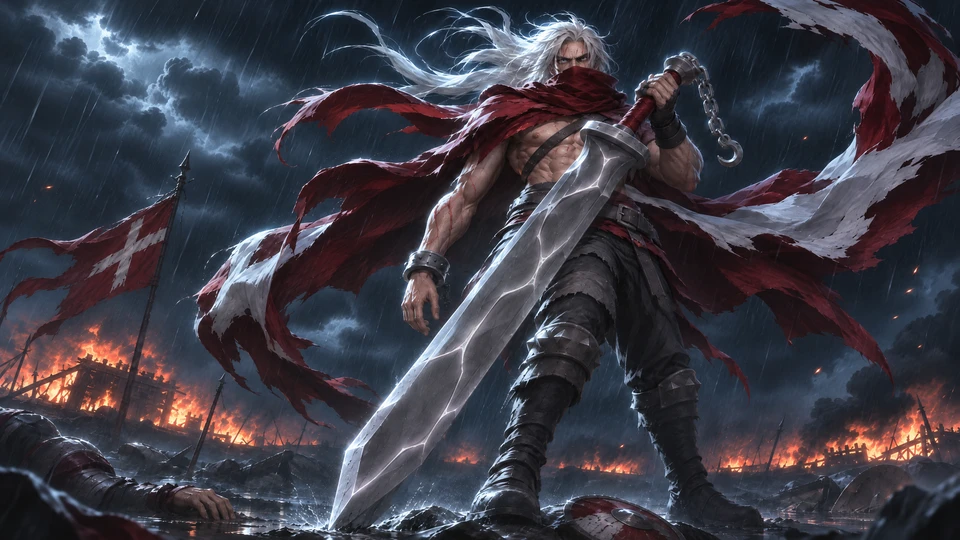
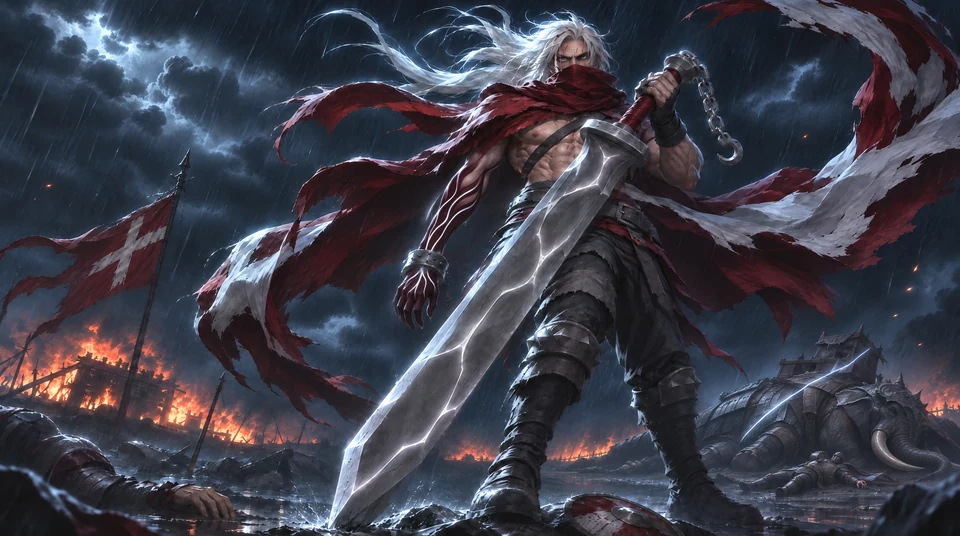
Hunter splash: Kael arm fix A (black-crimson arm, ice lines, like master sheet)
Claude-Session: https://claude.ai/code/session_01Fa986kEoxoUbsf7VZzVwQa

diff --git a/presskit.html b/presskit.html
@@ -101,19 +101,19 @@
         </div>
         <h2>Hunter art</h2>
         <div class="pk-grid">
-          <a href="assets/img/hunters/lisette-2400.webp?v=2026-11-15c11" target="_blank"><img src="assets/img/hunters/lisette-960.webp?v=2026-11-15c11" alt="Lace splash art" loading="lazy"><span class="pk-cap">Lace</span></a>
-          <a href="assets/img/hunters/breaker-2400.webp?v=2026-11-15c11" target="_blank"><img src="assets/img/hunters/breaker-960.webp?v=2026-11-15c11" alt="Albert splash art" loading="lazy"><span class="pk-cap">Albert</span></a>
-          <a href="assets/img/hunters/vex-2400.webp?v=2026-11-15c11" target="_blank"><img src="assets/img/hunters/vex-960.webp?v=2026-11-15c11" alt="Vex splash art" loading="lazy"><span class="pk-cap">Vex</span></a>
-          <a href="assets/img/hunters/kael-2400.webp?v=2026-11-15c11" target="_blank"><img src="assets/img/hunters/kael-960.webp?v=2026-11-15c11" alt="Kael splash art" loading="lazy"><span class="pk-cap">Kael</span></a>
-          <a href="assets/img/hunters/claire-2400.webp?v=2026-11-15c11" target="_blank"><img src="assets/img/hunters/claire-960.webp?v=2026-11-15c11" alt="Neve splash art" loading="lazy"><span class="pk-cap">Neve</span></a>
-          <a href="assets/img/hunters/cinder-2400.webp?v=2026-11-15c11" target="_blank"><img src="assets/img/hunters/cinder-960.webp?v=2026-11-15c11" alt="Cinder splash art" loading="lazy"><span class="pk-cap">Cinder</span></a>
-          <a href="assets/img/hunters/tarek-2400.webp?v=2026-11-15c11" target="_blank"><img src="assets/img/hunters/tarek-960.webp?v=2026-11-15c11" alt="Tenzo splash art" loading="lazy"><span class="pk-cap">Tenzo</span></a>
-          <a href="assets/img/hunters/ryzz-2400.webp?v=2026-11-15c11" target="_blank"><img src="assets/img/hunters/ryzz-960.webp?v=2026-11-15c11" alt="Sparkle splash art" loading="lazy"><span class="pk-cap">Sparkle</span></a>
-          <a href="assets/img/hunters/grimble-2400.webp?v=2026-11-15c11" target="_blank"><img src="assets/img/hunters/grimble-960.webp?v=2026-11-15c11" alt="Grimble splash art" loading="lazy"><span class="pk-cap">Grimble</span></a>
-          <a href="assets/img/hunters/pip-2400.webp?v=2026-11-15c11" target="_blank"><img src="assets/img/hunters/pip-960.webp?v=2026-11-15c11" alt="Meeko splash art" loading="lazy"><span class="pk-cap">Meeko</span></a>
-          <a href="assets/img/hunters/sable-2400.webp?v=2026-11-15c11" target="_blank"><img src="assets/img/hunters/sable-960.webp?v=2026-11-15c11" alt="Sable splash art" loading="lazy"><span class="pk-cap">Sable</span></a>
-          <a href="assets/img/hunters/gill-2400.webp?v=2026-11-15c11" target="_blank"><img src="assets/img/hunters/gill-960.webp?v=2026-11-15c11" alt="Gill splash art" loading="lazy"><span class="pk-cap">Gill</span></a>
-          <a href="assets/img/hunters/motley-2400.webp?v=2026-11-15c11" target="_blank"><img src="assets/img/hunters/motley-960.webp?v=2026-11-15c11" alt="Motley splash art" loading="lazy"><span class="pk-cap">Motley</span></a>
+          <a href="assets/img/hunters/lisette-2400.webp?v=2026-11-15c12" target="_blank"><img src="assets/img/hunters/lisette-960.webp?v=2026-11-15c12" alt="Lace splash art" loading="lazy"><span class="pk-cap">Lace</span></a>
+          <a href="assets/img/hunters/breaker-2400.webp?v=2026-11-15c12" target="_blank"><img src="assets/img/hunters/breaker-960.webp?v=2026-11-15c12" alt="Albert splash art" loading="lazy"><span class="pk-cap">Albert</span></a>
+          <a href="assets/img/hunters/vex-2400.webp?v=2026-11-15c12" target="_blank"><img src="assets/img/hunters/vex-960.webp?v=2026-11-15c12" alt="Vex splash art" loading="lazy"><span class="pk-cap">Vex</span></a>
+          <a href="assets/img/hunters/kael-2400.webp?v=2026-11-15c12" target="_blank"><img src="assets/img/hunters/kael-960.webp?v=2026-11-15c12" alt="Kael splash art" loading="lazy"><span class="pk-cap">Kael</span></a>
+          <a href="assets/img/hunters/claire-2400.webp?v=2026-11-15c12" target="_blank"><img src="assets/img/hunters/claire-960.webp?v=2026-11-15c12" alt="Neve splash art" loading="lazy"><span class="pk-cap">Neve</span></a>
+          <a href="assets/img/hunters/cinder-2400.webp?v=2026-11-15c12" target="_blank"><img src="assets/img/hunters/cinder-960.webp?v=2026-11-15c12" alt="Cinder splash art" loading="lazy"><span class="pk-cap">Cinder</span></a>
+          <a href="assets/img/hunters/tarek-2400.webp?v=2026-11-15c12" target="_blank"><img src="assets/img/hunters/tarek-960.webp?v=2026-11-15c12" alt="Tenzo splash art" loading="lazy"><span class="pk-cap">Tenzo</span></a>
+          <a href="assets/img/hunters/ryzz-2400.webp?v=2026-11-15c12" target="_blank"><img src="assets/img/hunters/ryzz-960.webp?v=2026-11-15c12" alt="Sparkle splash art" loading="lazy"><span class="pk-cap">Sparkle</span></a>
+          <a href="assets/img/hunters/grimble-2400.webp?v=2026-11-15c12" target="_blank"><img src="assets/img/hunters/grimble-960.webp?v=2026-11-15c12" alt="Grimble splash art" loading="lazy"><span class="pk-cap">Grimble</span></a>
+          <a href="assets/img/hunters/pip-2400.webp?v=2026-11-15c12" target="_blank"><img src="assets/img/hunters/pip-960.webp?v=2026-11-15c12" alt="Meeko splash art" loading="lazy"><span class="pk-cap">Meeko</span></a>
+          <a href="assets/img/hunters/sable-2400.webp?v=2026-11-15c12" target="_blank"><img src="assets/img/hunters/sable-960.webp?v=2026-11-15c12" alt="Sable splash art" loading="lazy"><span class="pk-cap">Sable</span></a>
+          <a href="assets/img/hunters/gill-2400.webp?v=2026-11-15c12" target="_blank"><img src="assets/img/hunters/gill-960.webp?v=2026-11-15c12" alt="Gill splash art" loading="lazy"><span class="pk-cap">Gill</span></a>
+          <a href="assets/img/hunters/motley-2400.webp?v=2026-11-15c12" target="_blank"><img src="assets/img/hunters/motley-960.webp?v=2026-11-15c12" alt="Motley splash art" loading="lazy"><span class="pk-cap">Motley</span></a>
         </div>
         <h2>Boki art</h2>
         <div class="pk-grid pk-grid-boki" id="pk-boki" hidden></div>
@@ -151,7 +151,7 @@
   <div class="consent-b"><button class="btn btn-glass btn-sm" type="button" data-no>Decline</button><button class="btn btn-solid btn-sm" type="button" data-yes>Accept</button></div>
 </div>
 
-<script src="assets/site.js?v=295"></script>
+<script src="assets/site.js?v=296"></script>
 <script src="assets/signup.js?v=1"></script>
 <script src="/assets/topbar.js?v=6" defer></script>
 </body>

diff --git a/index.html b/index.html
@@ -170,7 +170,7 @@
       <button class="bk-arrow prev h-arrow" type="button" id="h-prev" aria-label="Previous Hunter"><svg viewBox="0 0 24 24" aria-hidden="true"><path d="M15 5l-7 7 7 7" fill="none" stroke="currentColor" stroke-width="2.6" stroke-linecap="round" stroke-linejoin="round"/></svg></button>
       <button class="bk-arrow next h-arrow" type="button" id="h-next" aria-label="Next Hunter"><svg viewBox="0 0 24 24" aria-hidden="true"><path d="M9 5l7 7-7 7" fill="none" stroke="currentColor" stroke-width="2.6" stroke-linecap="round" stroke-linejoin="round"/></svg></button>
       <div class="bk-count h-count"><b id="h-n">01</b> / <span>13</span></div>
-      <div class="shot"><img data-zoom id="h-art" src="assets/img/hunters/vex-1600.webp?v=2026-11-15c11" srcset="assets/img/hunters/vex-960.webp?v=2026-11-15c11 960w, assets/img/hunters/vex-1600.webp?v=2026-11-15c11 1600w, assets/img/hunters/vex-2400.webp?v=2026-11-15c11 2400w" sizes="(max-width: 720px) 260vw, (max-width: 1000px) and (orientation: portrait) 150vw, (max-width: 1280px) 100vw, 1240px" alt="Vex, the Hired Gun" loading="lazy"><button class="h-expand" type="button" id="h-expand" aria-label="View full art"><svg viewBox="0 0 24 24" fill="none" stroke="currentColor" stroke-width="2.2" stroke-linecap="round" stroke-linejoin="round" aria-hidden="true"><path d="M14 4h6v6M10 20H4v-6M20 4l-6.5 6.5M4 20l6.5-6.5"/></svg></button></div>
+      <div class="shot"><img data-zoom id="h-art" src="assets/img/hunters/vex-1600.webp?v=2026-11-15c12" srcset="assets/img/hunters/vex-960.webp?v=2026-11-15c12 960w, assets/img/hunters/vex-1600.webp?v=2026-11-15c12 1600w, assets/img/hunters/vex-2400.webp?v=2026-11-15c12 2400w" sizes="(max-width: 720px) 260vw, (max-width: 1000px) and (orientation: portrait) 150vw, (max-width: 1280px) 100vw, 1240px" alt="Vex, the Hired Gun" loading="lazy"><button class="h-expand" type="button" id="h-expand" aria-label="View full art"><svg viewBox="0 0 24 24" fill="none" stroke="currentColor" stroke-width="2.2" stroke-linecap="round" stroke-linejoin="round" aria-hidden="true"><path d="M14 4h6v6M10 20H4v-6M20 4l-6.5 6.5M4 20l6.5-6.5"/></svg></button></div>
       <div class="info" aria-live="polite">
         <div class="role" id="h-role" data-role="Gunslinger">Gunslinger</div>
         <h3 id="h-name">Vex</h3>
@@ -289,7 +289,7 @@
   <symbol id="i-play" viewBox="0 0 24 24"><path d="M7 4.5v15a1 1 0 0 0 1.5.86l12.4-7.5a1 1 0 0 0 0-1.72L8.5 3.64A1 1 0 0 0 7 4.5Z"/></symbol>
 </svg>
 
-<script src="assets/site.js?v=295"></script>
+<script src="assets/site.js?v=296"></script>
 <script src="assets/signup.js?v=1"></script>
 <script src="/assets/topbar.js?v=6" defer></script>
 </body>

diff --git a/devlog.html b/devlog.html
@@ -62,7 +62,7 @@
       <article class="dl-post" id="hunter-kits">
         <time datetime="2026-11-09">November 9, 2026</time>
         <h2>Hunter kits are on the site</h2>
-        <a class="dl-img" href="index.html#hunters"><img src="assets/img/hunters/breaker-1600.webp?v=2026-11-15c11" width="1600" height="893" alt="Albert, the Barnacle Knight" loading="lazy"></a>
+        <a class="dl-img" href="index.html#hunters"><img src="assets/img/hunters/breaker-1600.webp?v=2026-11-15c12" width="1600" height="893" alt="Albert, the Barnacle Knight" loading="lazy"></a>
         <p>Tap Abilities on any Hunter to see their full kit: weapon, passive, dash, both abilities and their ultimate.</p>
         <p>The kits come straight from the game files, so they stay current as we tune each Hunter.</p>
       </article>
@@ -90,7 +90,7 @@
   <div class="consent-b"><button class="btn btn-glass btn-sm" type="button" data-no>Decline</button><button class="btn btn-solid btn-sm" type="button" data-yes>Accept</button></div>
 </div>
 
-<script src="assets/site.js?v=295"></script>
+<script src="assets/site.js?v=296"></script>
 <script src="assets/signup.js?v=1"></script>
 <script src="/assets/topbar.js?v=6" defer></script>
 </body>

diff --git a/assets/site.js b/assets/site.js
@@ -192,7 +192,7 @@ if (heroIn && !calm) {
 
 /* ---------- Hunters: pick a Mask ---------- */
 // [id, name, title, has an up-to-date in-game model, role (from the kit's role line in the game)]
-const ART_V = "2026-11-15c11"; // bump when a Hunter splash changes
+const ART_V = "2026-11-15c12"; // bump when a Hunter splash changes
 // order 11-15 owner (r3: Grimble before Cinder): Kael Lace Albert = kingsguard trio (Cinder is not kingsguard); Sable last so Gill splits the purples (Motley/Sable)
 const HUNTERS = [
   ["vex", "Vex", "The Hired Gun", true, "Gunslinger"],

diff --git a/privacy.html b/privacy.html
@@ -99,7 +99,7 @@
   <div class="consent-b"><button class="btn btn-glass btn-sm" type="button" data-no>Decline</button><button class="btn btn-solid btn-sm" type="button" data-yes>Accept</button></div>
 </div>
 
-<script src="assets/site.js?v=295"></script>
+<script src="assets/site.js?v=296"></script>
 <script src="assets/signup.js?v=1"></script>
 <script src="/assets/topbar.js?v=6" defer></script>
 </body>
